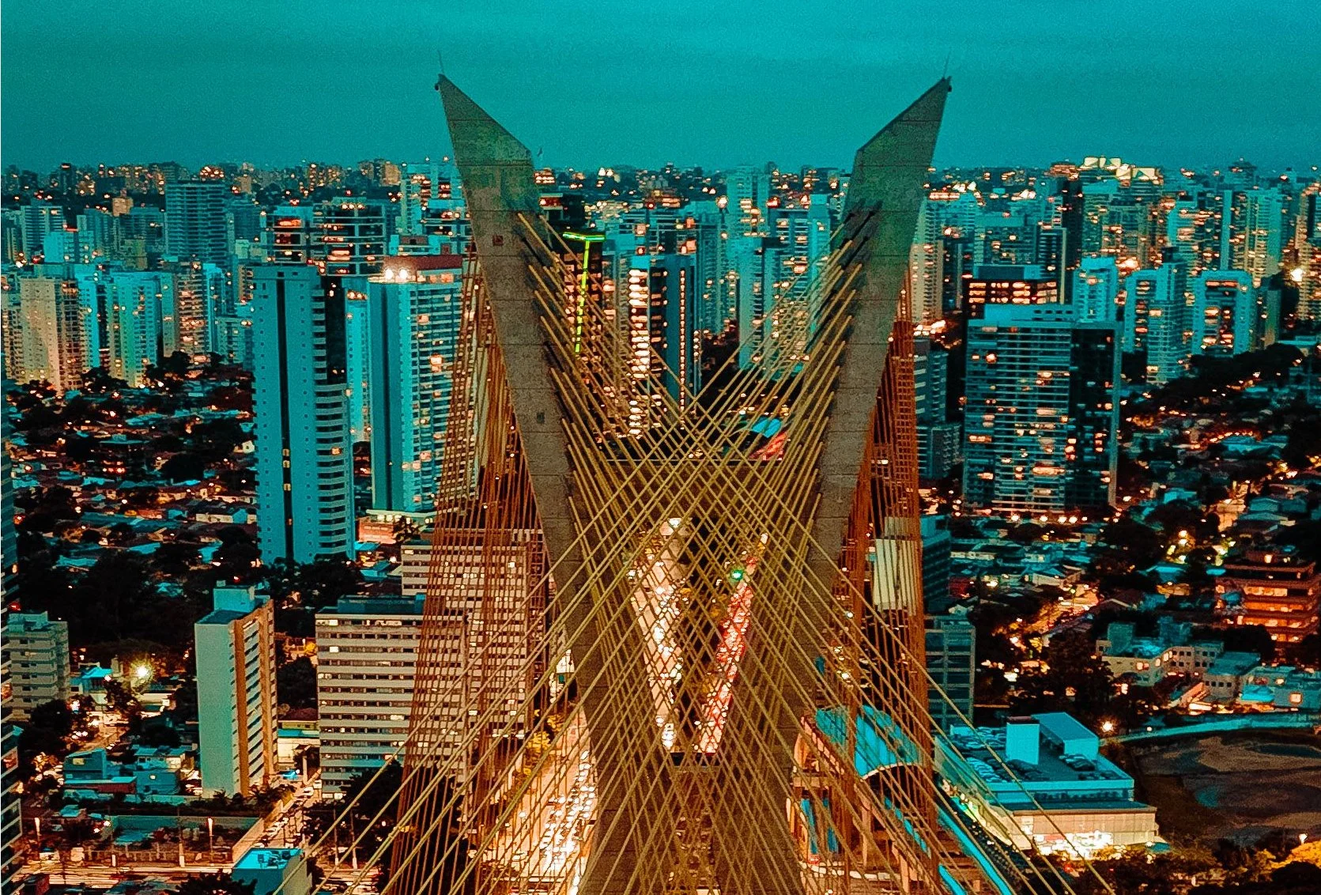
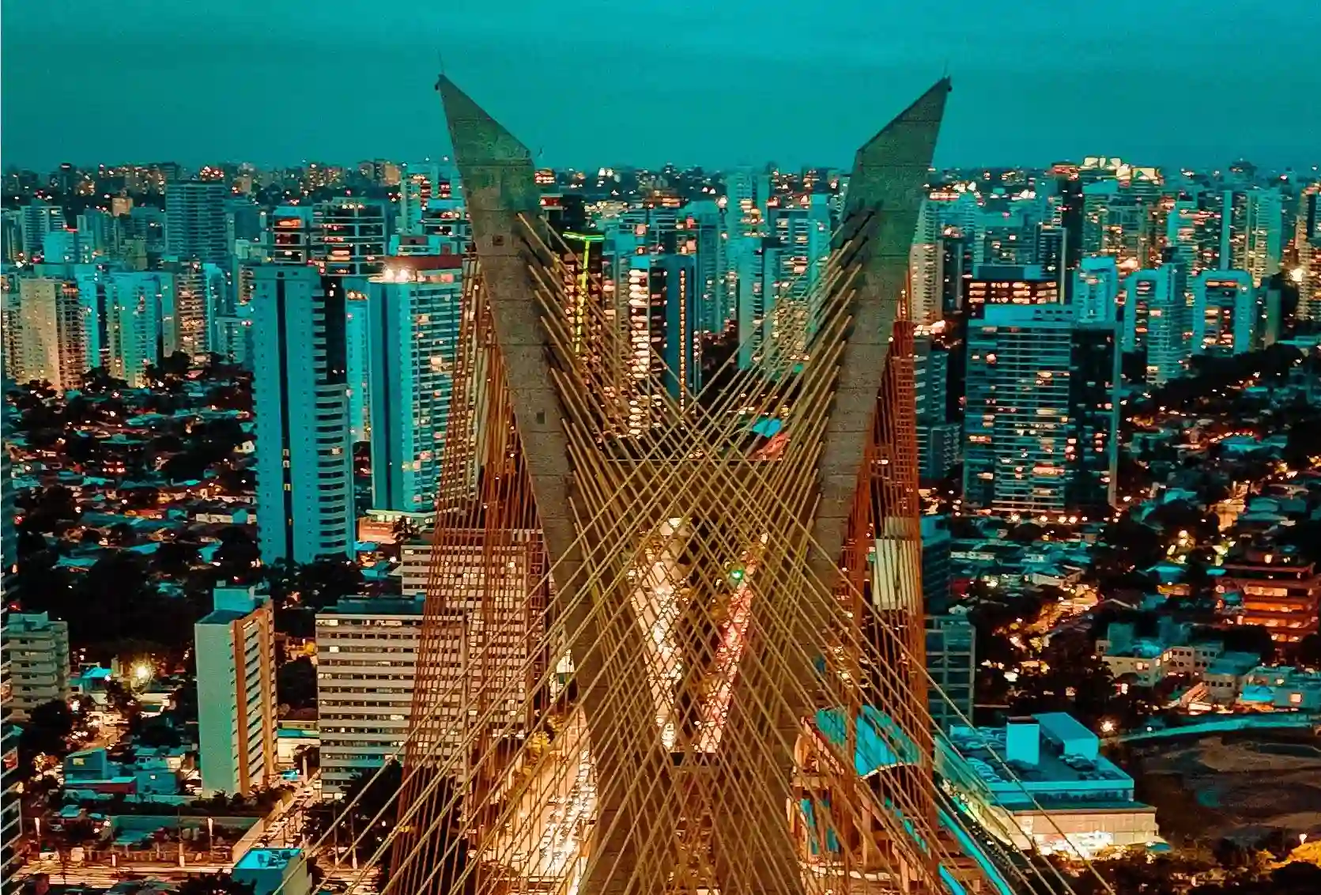
Optimize images

diff --git a/place.html b/place.html
@@ -8,7 +8,7 @@
     <meta name="description"
         content="WDD 131 – W03 Assignment: Country Page - Patrick Marcelo Araújo Silva Armani - Task.">
 
-    <title>Country Page</title>
+    <title>Brazil | Country Page</title>
 
     <!-- link for Google Fonts -->
     <link rel="preconnect" href="https://fonts.googleapis.com">
@@ -104,3 +104,5 @@
 
     </footer>
 </body>
+
+</html>
